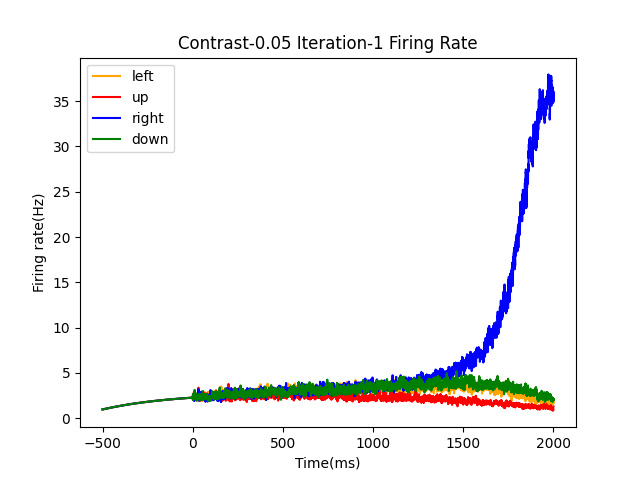
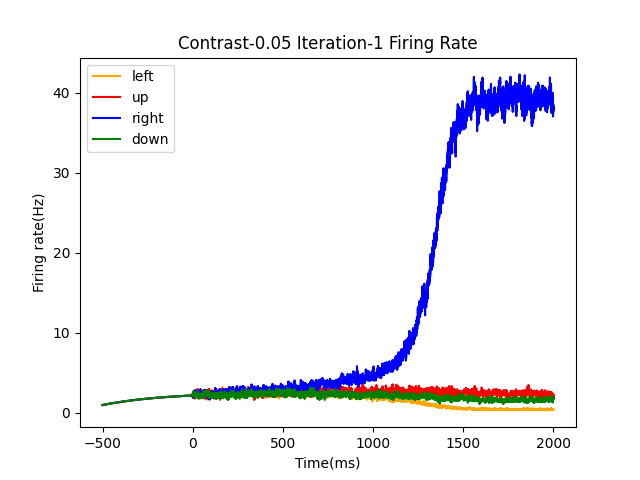
good

diff --git a/network/energy_motion_4dirction_low.py b/network/energy_motion_4dirction_low.py
@@ -40,12 +40,20 @@ def input_function(R_max, c_1,c_2,cprime):
     return left,right,up,down
 hue = ['orange', 'red', 'blue', 'green']
 plt.figure
+def tuningc(degree, cprime):
+    realdegree = 0
+    r0 = 20
+    r1 = 0
+    r2 = 100
+    sigma = 40
+    v = r0 + cprime * (-r1 + r2 * math.e ** (-(degree - realdegree) ** 2 / (sigma ** 2)))
+    return v
 left,right,up,down =input_function(R_max, c_1,c_2,0.05)
 #print(input_function(R_max,c_1,c_2,0.99))
 plt.plot([0 + x for x in range(350)], left, color=hue[0], label='left')
-plt.plot([0 + x for x in range(350)], up, label='up')
-plt.plot([0 + x for x in range(350)], right, label='right')
-plt.plot([0 + x for x in range(350)], down, label='down')
+plt.plot([0 + x for x in range(350)], up, color=hue[1],label='up')
+plt.plot([0 + x for x in range(350)], right, color=hue[2] ,label='right')
+plt.plot([0 + x for x in range(350)], down, color=hue[3] ,label='down')
 plt.xlabel('Time')
 plt.ylabel('Input')
 # plt.ylim(0,20)
@@ -61,9 +69,13 @@ d = 0.154
 gamma = 0.641
 taus = 100 * 10 ** -3
 tauampa = 2 * 10 ** -3
+#Je = 0.3103
+#Jot = -0.0185
+#Jop = -0.0185
+
 Je = 0.3103
-Jot = -0.0185
-Jop = -0.0185
+Jot = -0.007
+Jop = -0.048
 
 (J11,J12,J13,J14) = (Je,Jot,Jop,Jot)
 (J21,J22,J23,J24) = (Jot,Je,Jot,Jop)
@@ -207,10 +219,10 @@ def smoothing(data):
 plt.figure
 hue = ['orange', 'red', 'blue', 'green']
 
-sum_plot=4
+sum_plot=0
 #3 decision with smoothing
 
-iter=500
+iter=1
 for cprime in [0.05]:
   if sum_plot==0:
     for i in range(iter):
